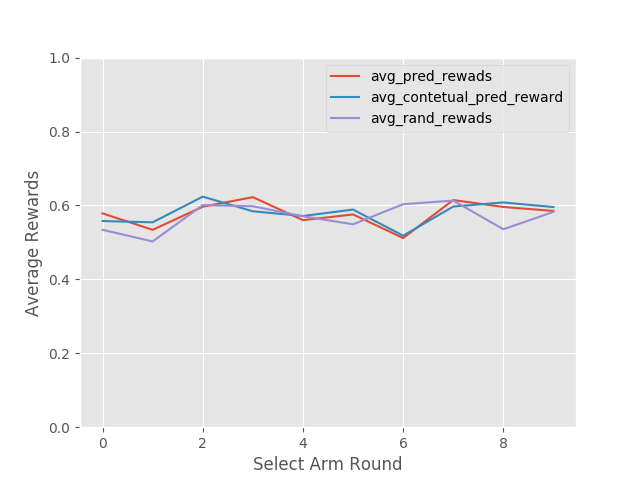
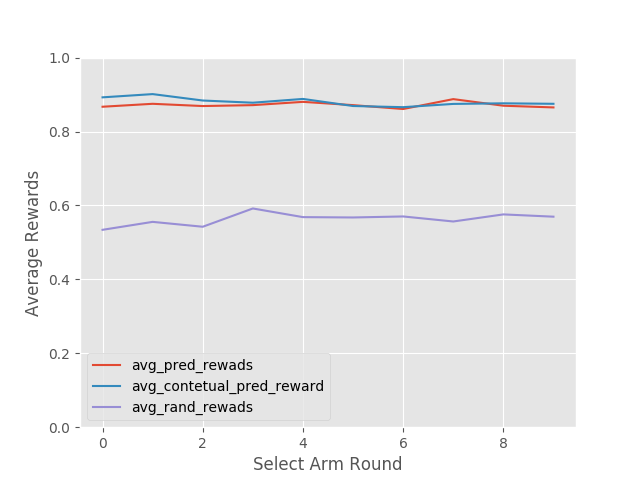
update時の条件処理を修正 これにより、バンディットが機能するようになったなった

Changed region(s): [[0.1562, 0.1562, 0.875, 0.2812], [0.1562, 0.4062, 0.875, 0.5], [0.1562, 0.75, 0.5, 0.875]]

diff --git a/example/multArm_bandit.py b/example/multArm_bandit.py
@@ -12,14 +12,15 @@ plt.style.use('ggplot')
 def generate_data(n_arm=5, n_samples=10000, random_state=42):
     np.random.seed(random_state)
 
-    n_noise = np.random.rand(n_samples)
+    feature_id = np.arange(n_samples)
     weights = np.random.rand(n_arm)
-
     pulled_arms = np.random.randint(n_arm, size=n_samples)
-    pulled_rewards = (n_noise < weights[pulled_arms]).astype(np.int8)
+    theta = np.random.rand(n_samples)
 
-    data = np.c_[pulled_arms, pulled_rewards]
-    return data, weights
+    rewards = (theta < weights[pulled_arms]).astype(np.int8)
+
+    trial_data = np.c_[feature_id, pulled_arms, rewards]
+    return np.zeros(n_samples), trial_data, weights
 
 
 def plot_result(result_dict, dst_path):
@@ -37,7 +38,7 @@ def main():
     n_arm = 5
     n_samples = 1000000
 
-    data, weight = generate_data(n_arm, n_samples)
+    _, data, weight = generate_data(n_arm, n_samples)
 
     print('Each Arm Weight Is ', weight)
     print('Max Rewards Arm_id Is ', np.argmax(weight))
@@ -55,7 +56,7 @@ def main():
 
         batch_data = data[start:end]
         # Bandit モデルの更新
-        bandit_model.update(data[:end])
+        bandit_model.update(data[:end, 1:])
         # アームの選択（予測）、選ばれたアームから報酬を計算
         selected_arm = bandit_model.select_arm(end - start)
         is_matched = (batch_data[:, 0] == selected_arm)

diff --git a/example/contextual_mautiArm_bandit.py b/example/contextual_mautiArm_bandit.py
@@ -73,16 +73,16 @@ def main():
     # bandit_model にコンテキストを与える
     if is_contextual:
         attr = {'solver': 'lbfgs'}
-        estimator = LogisticRegression
+        base_estimator = LogisticRegression
         # TODO: set_context のタイミングでfeature_data をクラスに与える。
-        contextual_bandit_model.set_context(feature_data, estimator, attr)
+        contextual_bandit_model.set_context(feature_data, base_estimator, attr)
 
     # Train Model
     for start in range(0, n_samples, batch_size):
         end = np.minimum(start + batch_size, trial_data.shape[0])
         print(f'Batch Progress is {end} of {n_samples}')
 
-        batch_data = trial_data[start:end]
+        batch_data = trial_data[:end]
 
         # Bandit モデルの更新
         bandit_model.update(trial_data[:end])
@@ -101,7 +101,7 @@ def main():
         result_dict['avg_contetual_pred_reward'].append(avg_contetual_pred_reward)
 
         # ランダムにアームを選択した場合の報酬を計算
-        rand_selected_arms = np.random.randint(n_arm, size=(end - start))
+        rand_selected_arms = np.random.randint(n_arm, size=(end))
         is_observed = (batch_data[:, 1] == rand_selected_arms)
         avg_rand_reward = batch_data[is_observed, 2].mean()
         result_dict['avg_rand_rewads'].append(avg_rand_reward)

diff --git a/bandit.py b/bandit.py
@@ -36,7 +36,7 @@ class EpsilonGreedy(BaseBandit):
             self._normal_update(trial_data)
 
     def _normal_update(self, trial_data):
-        self.each_arm_probability = np.array([trial_data[(trial_data[:, 0] == arm_id), 1].mean()
+        self.each_arm_probability = np.array([trial_data[(trial_data[:, 1] == arm_id), 2].mean()
                                               for arm_id in range(self.n_arm)])
 
     def _contextual_update(self, trial_data):
